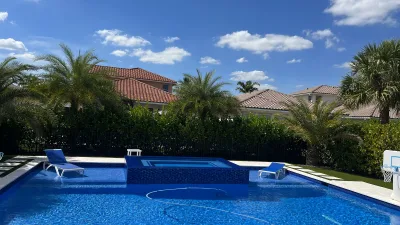
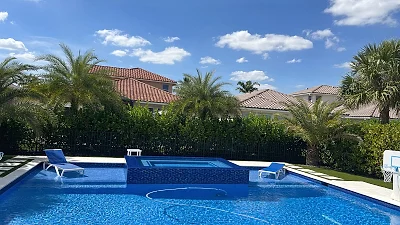
R23-PORTADAS: grado fotografico de las 10 imagenes de portada
Exposicion, sombras, iluminacion, contraste y saturacion de las 10 portadas del
blog -las que salen en /blogs-tips, en el carrusel de 79 rutas y en Most Read-.
Las 30 figuras del cuerpo no se tocan: el encargo era de portadas.

NO HAY RECETA UNICA porque cada una llegaba con un problema distinto, medido
sobre su histograma: 062-06 lavada por los dos lados (negro 29, blanco 214),
pergola-05 sin punto negro (25), kitchen-2 con 3,90 % de negro empastado y
saturacion 4, 061-08 con 1,83 % de altas luces YA quemadas -no se puede subir-,
061-12 subexpuesta de verdad (mediana 78), y 059-08/09 con media baja pero
saturacion 39: sujeto vivo, no tocar color. Una sola curva habria quemado unas
y lavado otras.

Cadena: niveles por percentiles, gamma de medios QUE SOLO ACLARA, curva S
aflojada en lo que ya viene vivo, saturacion inversa a la que ya tiene, CLAHE
suave y nitidez ligera. La LUT se aplica igual a R, G y B: mueve luminosidad y
contraste SIN ROTAR EL TONO -R13-COLOR dejo fuera a proposito las fotos reales
de obra-.

Con lazo: si empasta el negro, sube el punto negro y repite. Topes <=1,0 % de
negro y <=0,9 % de altas luces; las 10 pasan a la primera.

  061-12   media  90->125   negro 1,04->0,02
  kitchen-2 media 119->127  negro 3,90->0,59
  061-08   media 115->121   quemado 1,83->0,35
  062-06   media 130->139   negro 0,00->0,60

TRES FALLOS DE LIBRERIA cazados midiendo el resultado, no leyendo el codigo:
[…]

diff --git a/MIGRACION-LOG.md b/MIGRACION-LOG.md
@@ -6814,3 +6814,70 @@ grep -rlE 'images/site/(luxury-pool-designs|pool-construction-permits|…)' \
    `residentials/`, 39 en `procesos/` y las 10 de `images/commercial-*`. Encargo aparte.
 5. **7 de los 10 artículos se enlazan a sí mismos** en «Most Read Articles». Arreglarlo quita
    texto → `check:texto`. Encargo aparte.
+
+
+---
+
+## R23-PORTADAS — grado fotográfico de las 10 imágenes de portada · 18-sep-2026
+
+**Qué se hizo.** Las 10 imágenes de **portada** del blog —las que salen en `/blogs-tips`, en el
+carrusel de 79 rutas y en «Most Read Articles»— pasan por un grado fotográfico completo:
+exposición, sombras, iluminación, contraste y saturación. Las 30 figuras del cuerpo **no** se
+tocan: el encargo era de portadas.
+
+**Por qué no hay una receta única.** Cada una llegaba con un problema distinto, medido sobre su
+histograma:
+
+| imagen | diagnóstico |
+|---|---|
+| `062-06` | negro en 29 y blanco en 214 — lavada por los dos lados |
+| `pergola-05` | negro en 25 — sin punto negro |
+| `kitchen-2` | **3,90 %** de negro empastado y saturación 4 |
+| `061-08` | **1,83 %** de altas luces ya quemadas — no se puede subir |
+| `061-12` | mediana en 78 — subexpuesta de verdad |
+| `059-08/09` | media baja pero saturación 39 — sujeto vivo, no tocar color |
+
+Una sola curva habría quemado unas y lavado otras.
+
+**La cadena** (`scripts/lib/grado-portada.mjs`): niveles por percentiles (p0.5 → 6, p99.5 → 249)
+· gamma de medios **que solo aclara** · curva S aflojada en lo que ya viene vivo · saturación
+inversa a la que ya tiene · CLAHE suave · nitidez ligera. La LUT se aplica **igual a R, G y B**:
+mueve luminosidad y contraste **sin rotar el tono** — `R13-COLOR` dejó fuera a propósito las fotos
+reales de obra («retonar el trabajo del cliente es peor»).
+
+**Y se mide, con lazo.** Si el grado empasta el negro, sube el punto negro y repite. Topes:
+≤1,0 % de negro y ≤0,9 % de altas luces. Las 10 pasan a la primera.
+
+```
+                                    media      sat    quemado        negro
+061-12 (subexpuesta)              90 → 125   12 → 13   0,23→0,64   1,04 → 0,02
+kitchen-2 (sombras sucias)       119 → 127    4 →  6   0,11→0,45   3,90 → 0,59
+061-08 (altas luces quemadas)    115 → 121    8 → 10   1,83→0,35   0,00 → 0,42
+062-06 (lavada)                  130 → 139   28 → 36   0,00→0,45   0,00 → 0,60
+```
+
+**Tres fallos de librería cazados midiendo el resultado, no leyendo el código:**
+
+1. `sharp.gamma(g)` con un solo argumento fija entrada **y** salida: el tono casi no se movía
+   (`061-12` se quedaba en media 90 con g=1,56). El gamma va en la LUT.
+2. CLAHE exige 8 bits y los `.avif` entran como `ushort`/`rgb16`:
+   `hist_local: image must be VIPS_FORMAT_UCHAR`.
+3. Forzar todas a la misma mediana **oscurecía** `062-06`, que venía correcta. El gamma solo
+   aclara.
+
+**Verificación.** No hay HTML nuevo —mismas rutas y dimensiones—, así que `texto`, `seo`,
+`enlaces` y `assets` no se mueven. Y **`check:visual` está CIEGO a este cambio**: las páginas de
+blog miden 14.000-22.000 px de alto y la tarjeta queda por debajo del umbral del 99 %
+(`CRITERIO.md:157`). Sale verde, y eso **no** prueba nada en ningún sentido. La verificación real
+son las medidas de arriba y dos hojas miradas: las 10 antes/después, y recortes **1:1** en tejado
+contra cielo, postes contra lago y madera — sin halos de CLAHE ni bordes crujientes.
+
+**No se re-baseliniza**, justamente porque la puerta no ve el cambio.
+
+### Queda abierto
+
+1. **Las rutas de `/services/` y familia están ROJAS y no es de R23.** Medido en
+   `/services/custom-pool-spa-builders-in-north-south-florida`: 4 de 4 anchos en rojo con
+   cambios de **altura** (−127 px, −131 px, −22 px, +14 px), y un cambio de imagen no mueve la
+   altura. Es **R21, que se fusionó a producción sin re-baselinizar sus rutas**. Re-baselinizarlas
+   sería aprobar su diseño, y eso es de Sebastian.
